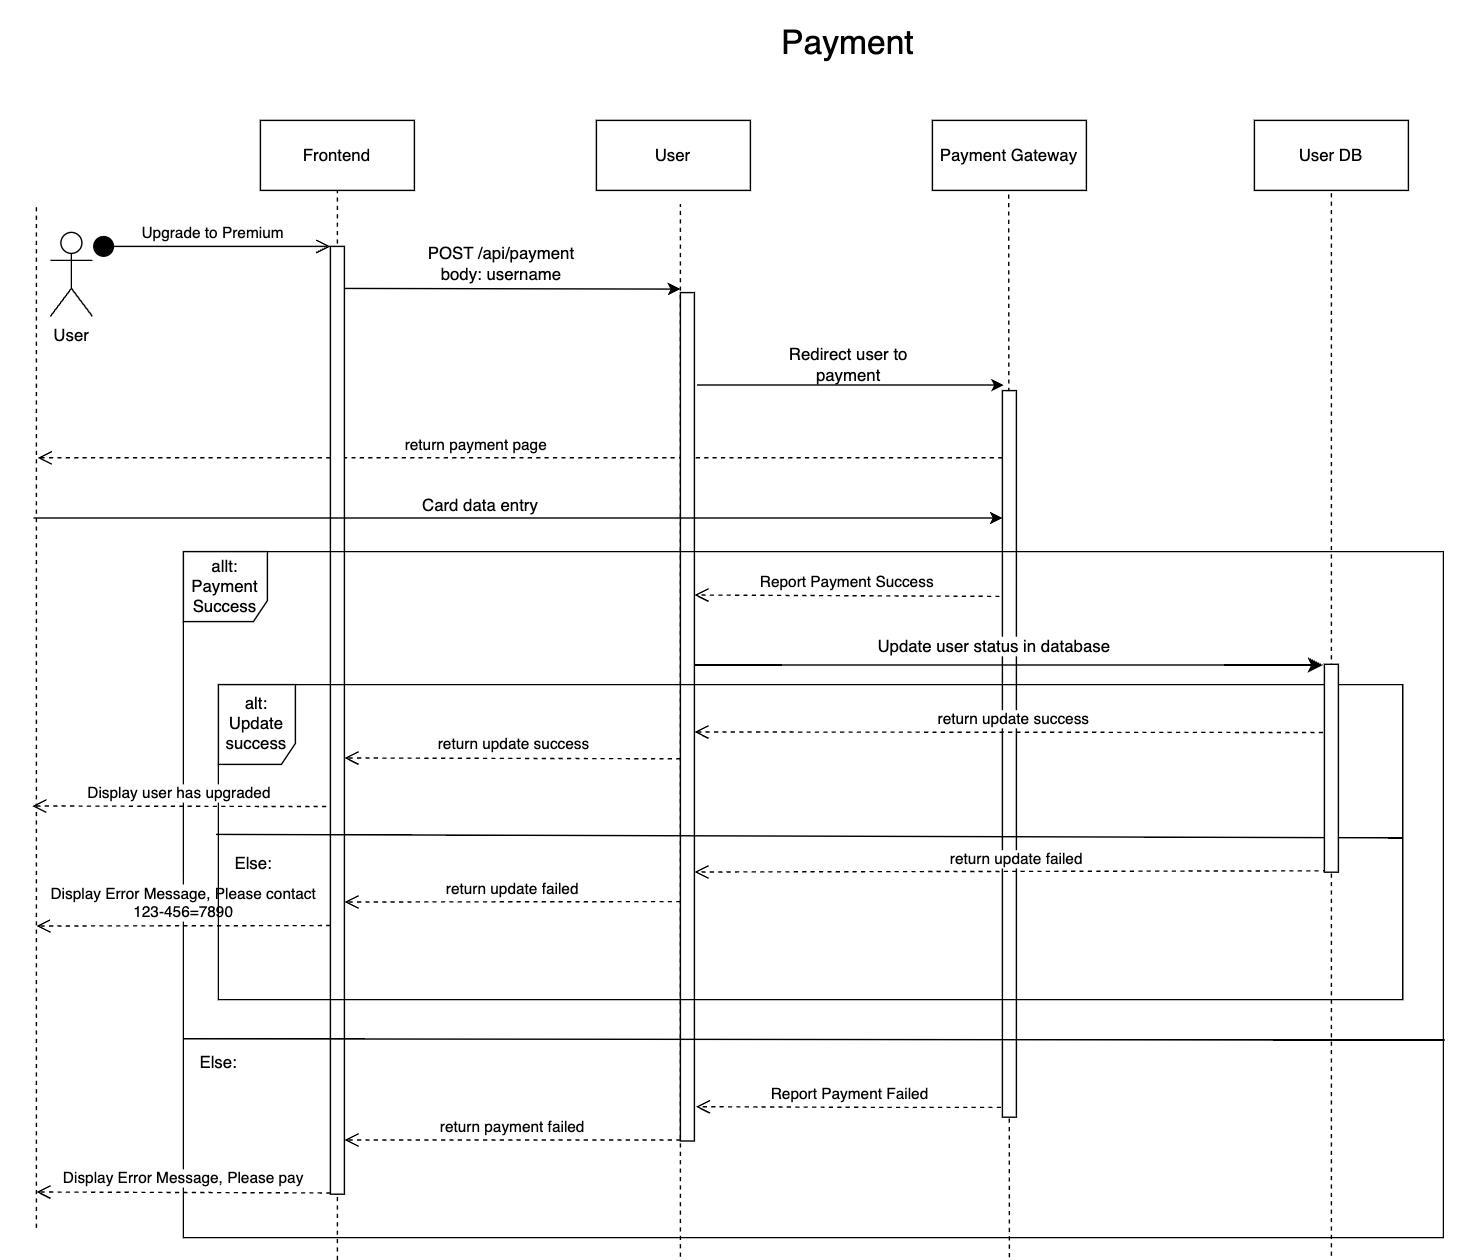
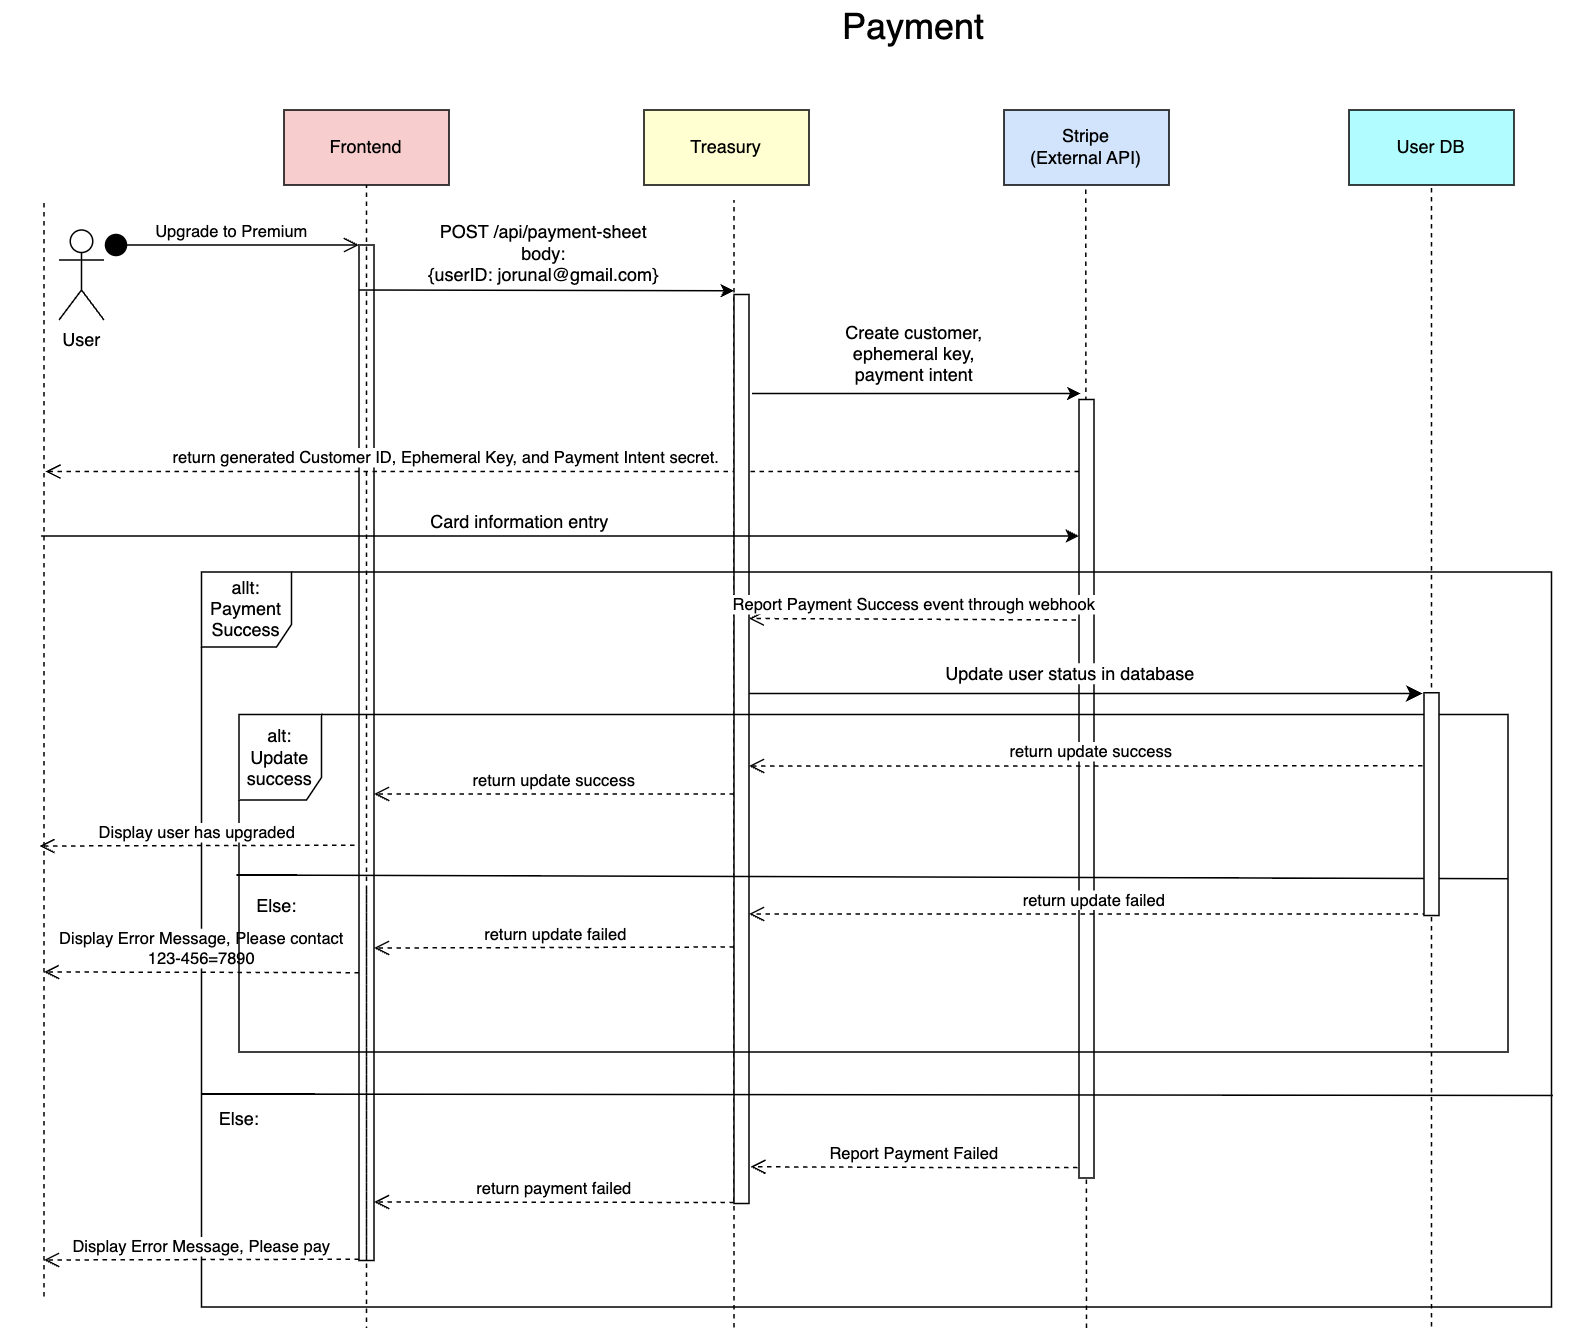
updated payment & reminder sequence diagrams

diff --git a/documentation/M3_Requirements_and_Design.md b/documentation/M3_Requirements_and_Design.md
@@ -737,10 +737,7 @@ google auth?
 2. **Stripe - Third-party payment**
     - **Purpose**: Manage a secure payment transactions using Stripe. 
     - **Rationale**: Stripe has developer-friendly APIs and is easy to learn. The alternative was Paypal which is supposedly less flexible for developers.
-    - **Interfaces**:
-        1. POST /api/payment
-            - **Request Body**: Amount, Card
-            - **Response Body**: Transaction Status
+    - **Interfaces**: The Stripe API is integrated in the Treasury component of our app, with logic to update the user database if the server webhook receives a payment succeeded event.
 3. **Sentiment Analysis - Openai API**
     - **Purpose**: Analyzes user's journal entry to determine sentiment.
     - **Rationale**: Most of the group has used the openai API previously. It is very simple to learn as well. 
